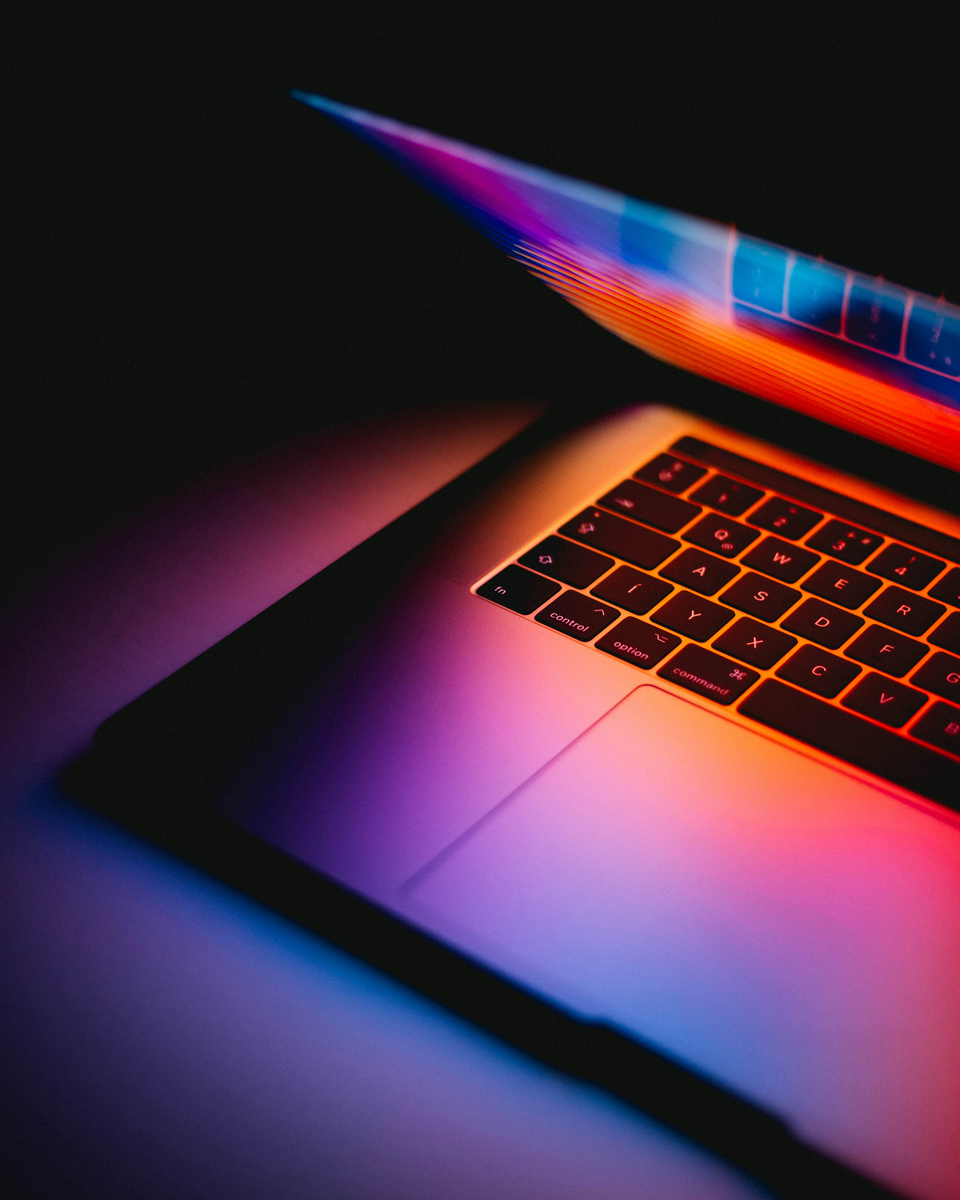
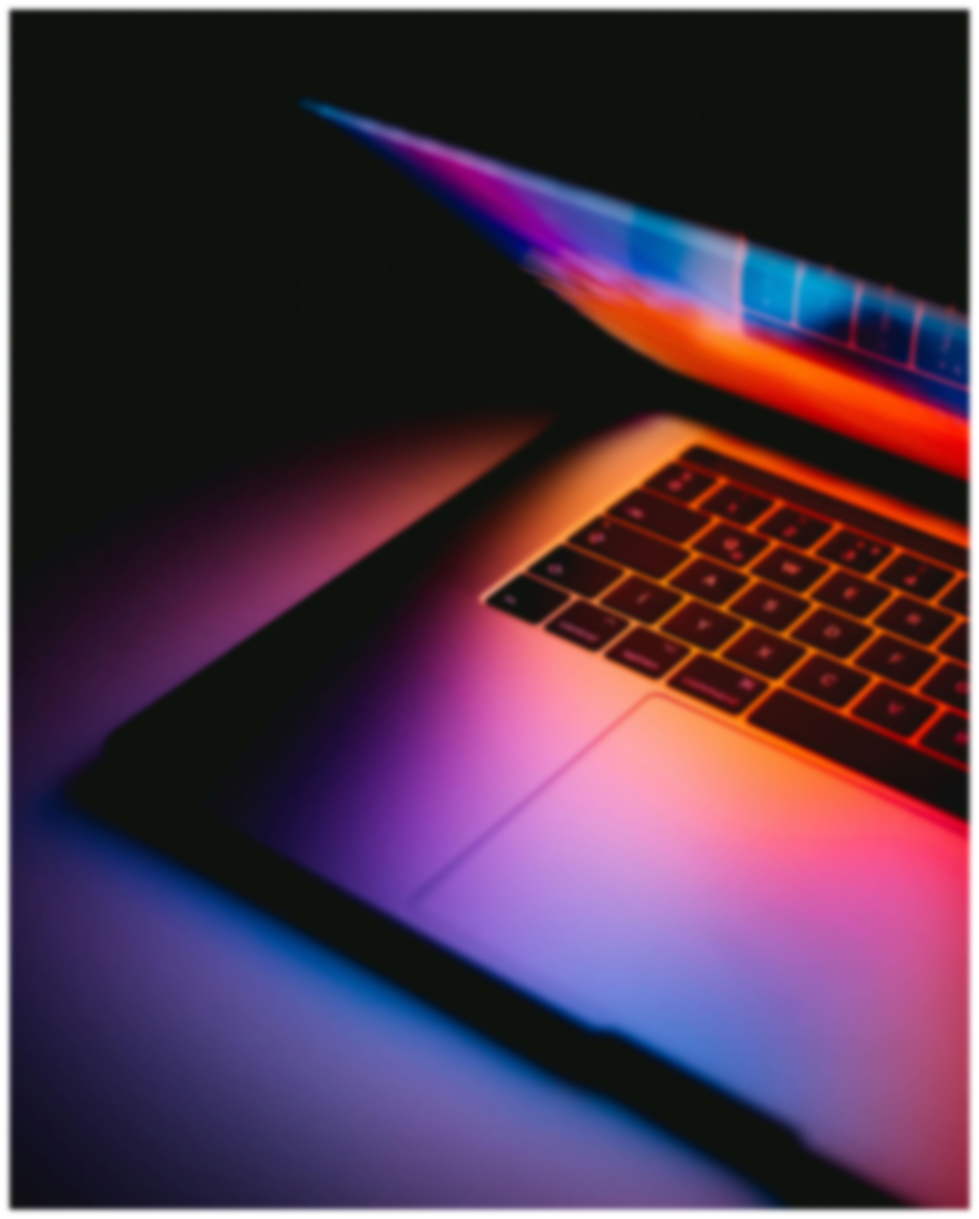
removed white effect on the image by enlarging it

diff --git a/assets/pages/footer.html b/assets/pages/footer.html
@@ -18,12 +18,10 @@
             <div class="row mb-5">
                 <div class="col-lg-7 mb-4 mb-lg-0">
                     <h2 class="display-4 fw-bold">Stay Updated with Our Latest News</h2>
-                    <p class="lead">Sign up to receive exclusive updates on new services, deals, and special promotions
+                    <p class="lead">Join Our Telegram Channel to receive exclusive updates on new services, deals, and special promotions
                         designed to satisfy you better.</p>
                         <div class="d-flex flex-column flex-md-row gap-3 newsletter">
-                            <input id="email-address" name="email" type="email" required placeholder="Enter your email"
-                                autocomplete="email" class="form-control border-secondary bg-dark text-light" />
-                            <button type="submit" id="subscribe-button" class="btn btn-warning mt-2 mt-md-0">Subscribe</button>
+                            <a target="_blank" href="https://t.me/jonietech" class="btn btn-warning mt-2 mt-md-0" id="subscribe-button"><i class="bi bi-telegram"></i>  Join Our Telegram Community</a>
                         </div>
                 </div>
                 <div class="col-md-5">
@@ -46,7 +44,7 @@
                         <div class="footer-card d-flex align-items-center">
                             <i class="fas fa-clock footer-icon"></i>
                             <div>
-                                <h5 class="fw-bold">Fast Delivery</h5>
+                                <h5 class="fw-bold">Fast Service Delivery</h5>
                                 <p>Experience Our thrillingly fast and reliable services.</p>
                             </div>
                         </div>
@@ -72,29 +70,6 @@
             </div>
         </div>
     </footer>
-
-    <script src="https://cdn.jsdelivr.net/npm/emailjs-com@2.6.4/dist/email.min.js"></script>
-    <script>
-        (function () {
-            emailjs.init("1JzRgHvD1ulDItma1"); //public key from EmailJS
-        })();
-    </script>
-
-    <script>
-        document.getElementById('subscribe-button').addEventListener('click', function(e) {
-            e.preventDefault(); // Prevent form from submitting in the traditional way
-            
-            var emailAddress = document.getElementById('email-address').value;
-            
-            emailjs.send('service_5o6orgr', 'template_3570xlk', {
-                email: emailAddress
-            }).then(function(response) {
-                alert('Subscription successful!'); // Display success message
-            }, function(error) {
-                alert('Failed to subscribe. Please try again.');
-            });
-        });
-    </script>
 
 </body>
 

diff --git a/assets/css/main.css b/assets/css/main.css
@@ -16,7 +16,7 @@ body {
     width: 100%;
     height: auto;
     justify-content: end;
-    background-image: linear-gradient(to bottom, rgba(68, 0, 255, 0.216), rgba(255, 0, 191, 0.069));
+    background-image: linear-gradient(to bottom, rgba(68, 0, 255, 0.216), rgba(255, 0, 191, 0.069),rgba(255, 0, 191, 0.069),rgba(255, 0, 191, 0.069));
     background-repeat: no-repeat;
     background-position: left;
     background-size: cover;
@@ -25,23 +25,21 @@ body {
 
 body::before {
     content: '';
-    position: absolute;
-    top: 0;
-    left: 0;
-    width: 100%;
-    height: 100%;
+    position: fixed;
+    top: -5%;
+    left: -10%;
+    width: 120%;
+    height: 120%;
     background-image: url('../back.jpg');
     background-repeat: no-repeat;
     background-position: left;
-    background-size: cover;
+    background-size:cover;
+    background-blend-mode: normal;
     transform: scaleX(-1); /* Flip the image horizontally */
     z-index: -1; /* Ensure the pseudo-element is behind the content */
-    filter: blur(10px);
+    background-color: rgba(0, 0, 0, 0.582); /* Add these properties for the overlay */
+    background-blend-mode: overlay; /* This blends the color with the image */
 }
-
-
-
-
 
 .section h2{
     color: #e0e0e0;
@@ -135,8 +133,8 @@ body::before {
     overflow: hidden;
     transition: 1s;
     box-shadow: 0 8px 32px 0 rgba(31, 38, 135, 0.37);
-    backdrop-filter: blur(30px);
-    -webkit-backdrop-filter: blur(3px);
+    backdrop-filter: blur(20px);
+    -webkit-backdrop-filter: blur(25px);
     border: 1px solid rgba(255, 255, 255, 0.18);
     margin-bottom: 0%;
 }
@@ -369,7 +367,7 @@ body::before {
 
 .footer a:hover {
     color: rgb(13 110 253);
-    text-decoration: underline;
+    text-decoration: none;
 }
 
 .footer-icon {
@@ -392,10 +390,11 @@ body::before {
 
 .footer .social-icons a:hover {
     color: rgb(13 110 253);
+    text-decoration: none;
 }
 
 .footer .newsletter input,
-.footer .newsletter button {
+.footer .newsletter a {
     border-radius: 0.5rem;
 }
 
@@ -407,7 +406,7 @@ body::before {
 }
 
 
-.footer .newsletter button {
+.footer .newsletter a {
     border: none;
     background-color: rgb(13 110 253);
     color: #ffffff;
@@ -415,8 +414,8 @@ body::before {
     transition: background-color 0.3s;
 }
 
-.footer .newsletter button:hover {
-    background-color: rgb(13 110 253);
+.footer .newsletter a:hover {
+    background-color: rgb(15, 59, 125);
 }
 
 
